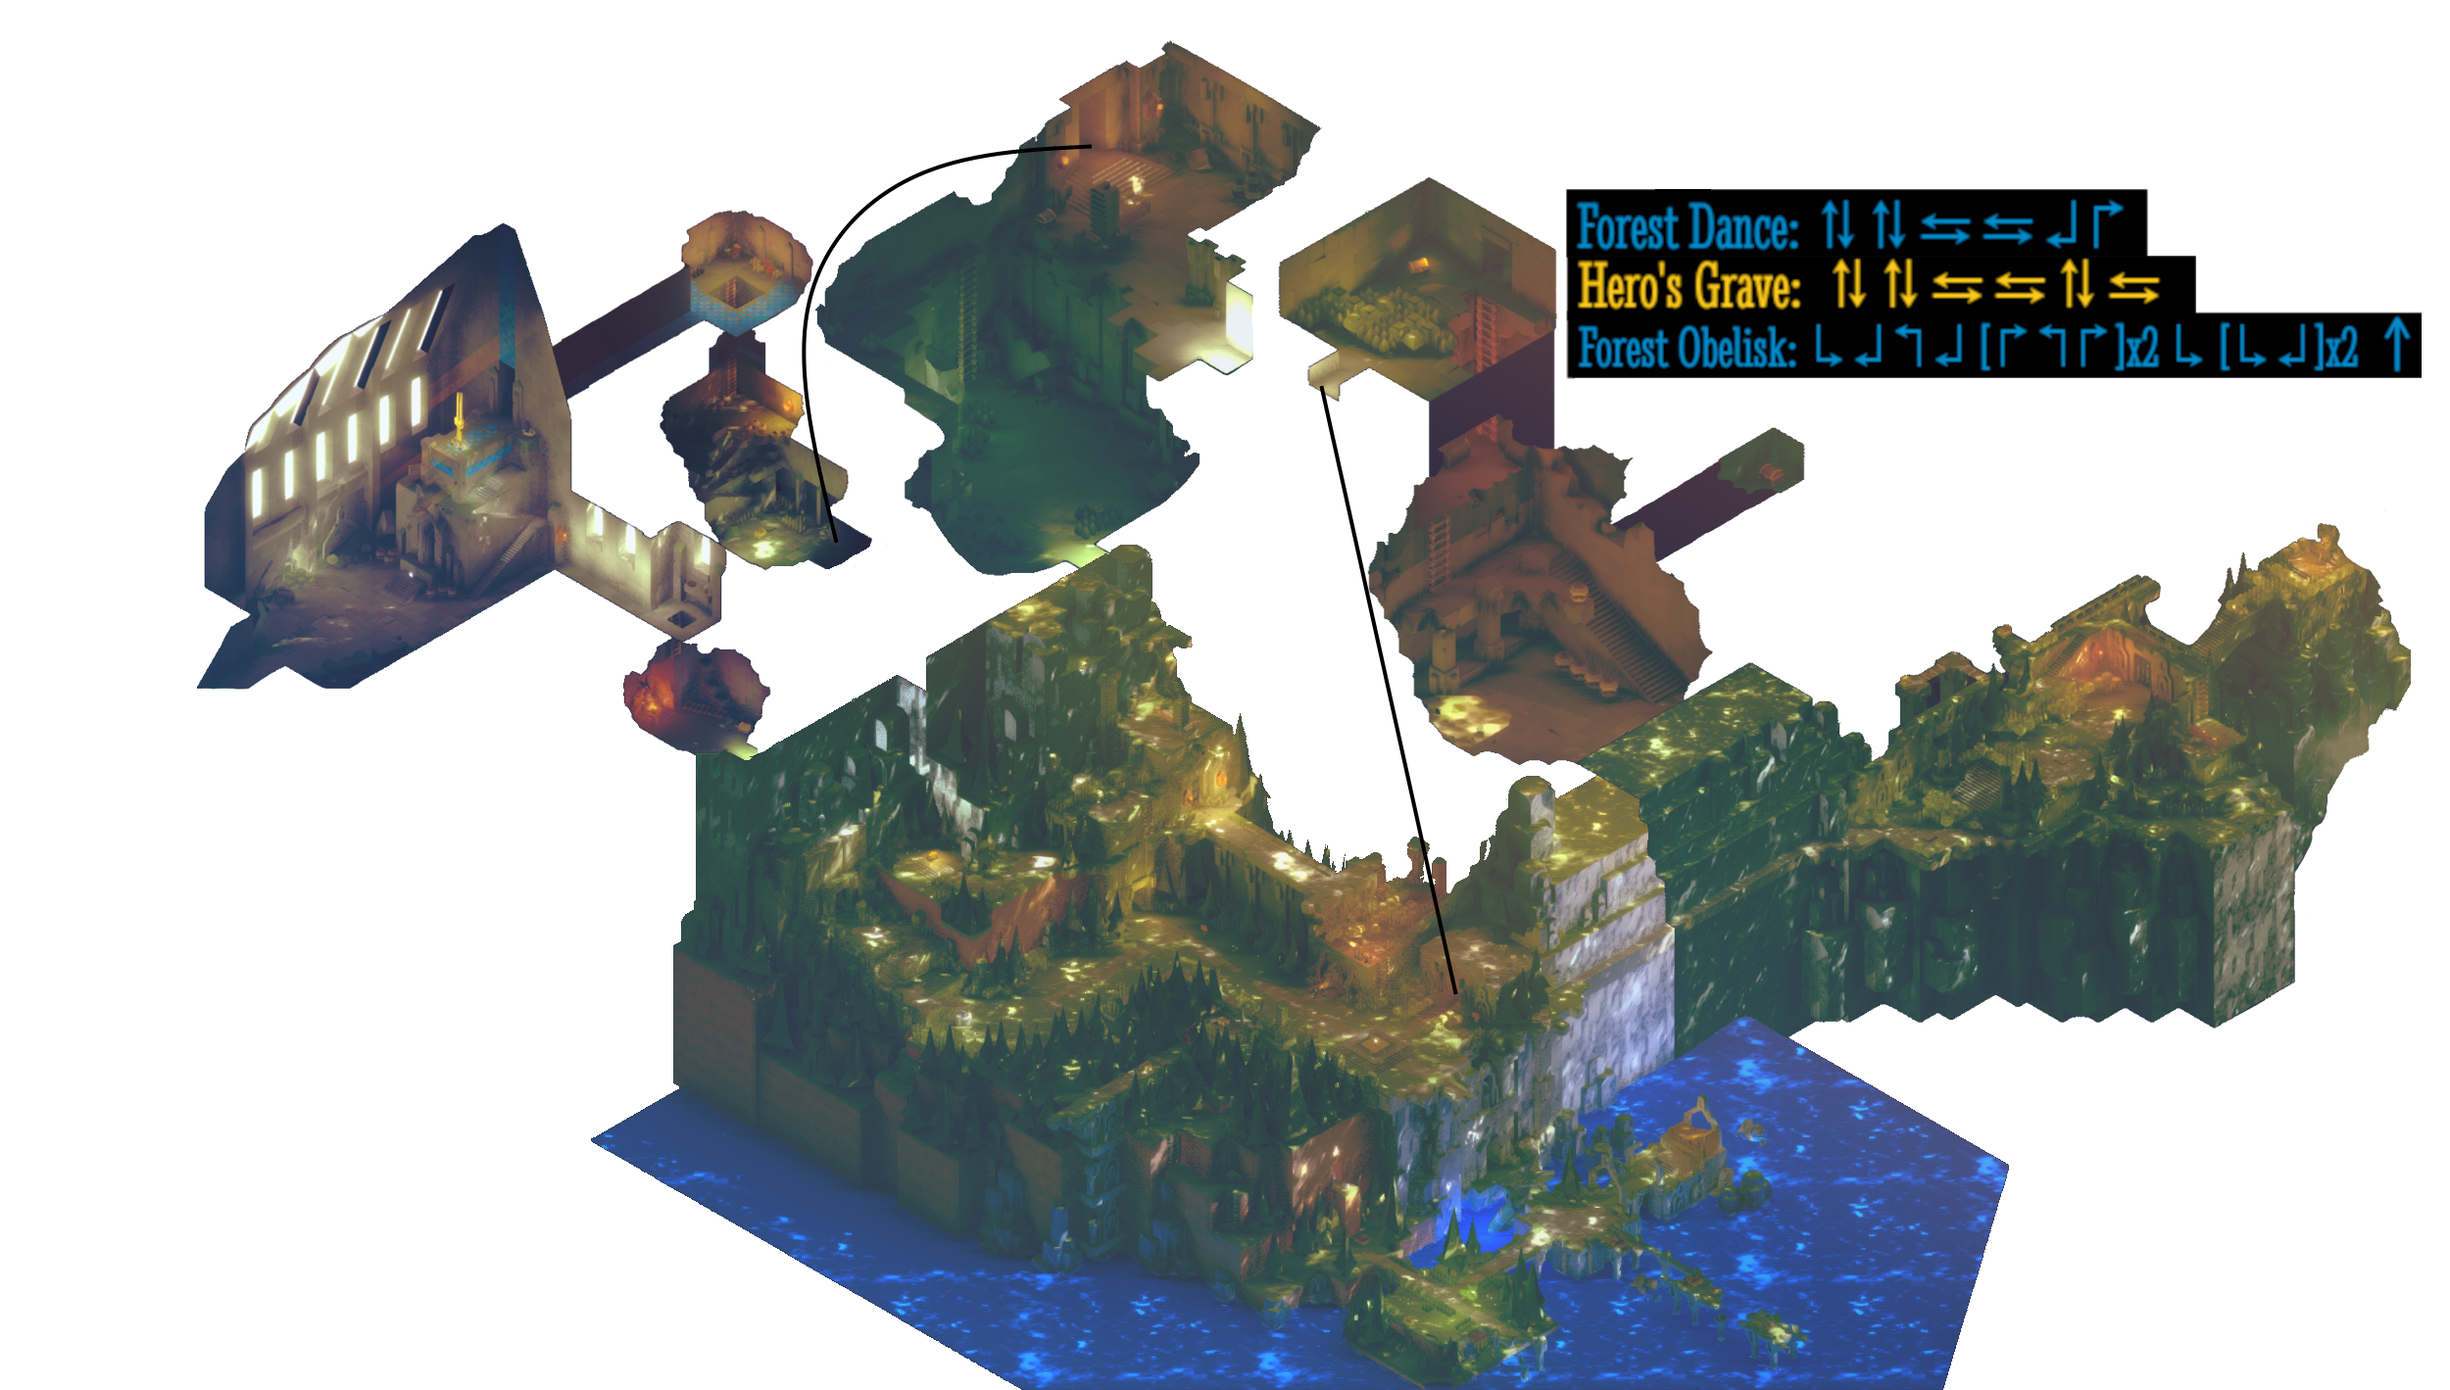
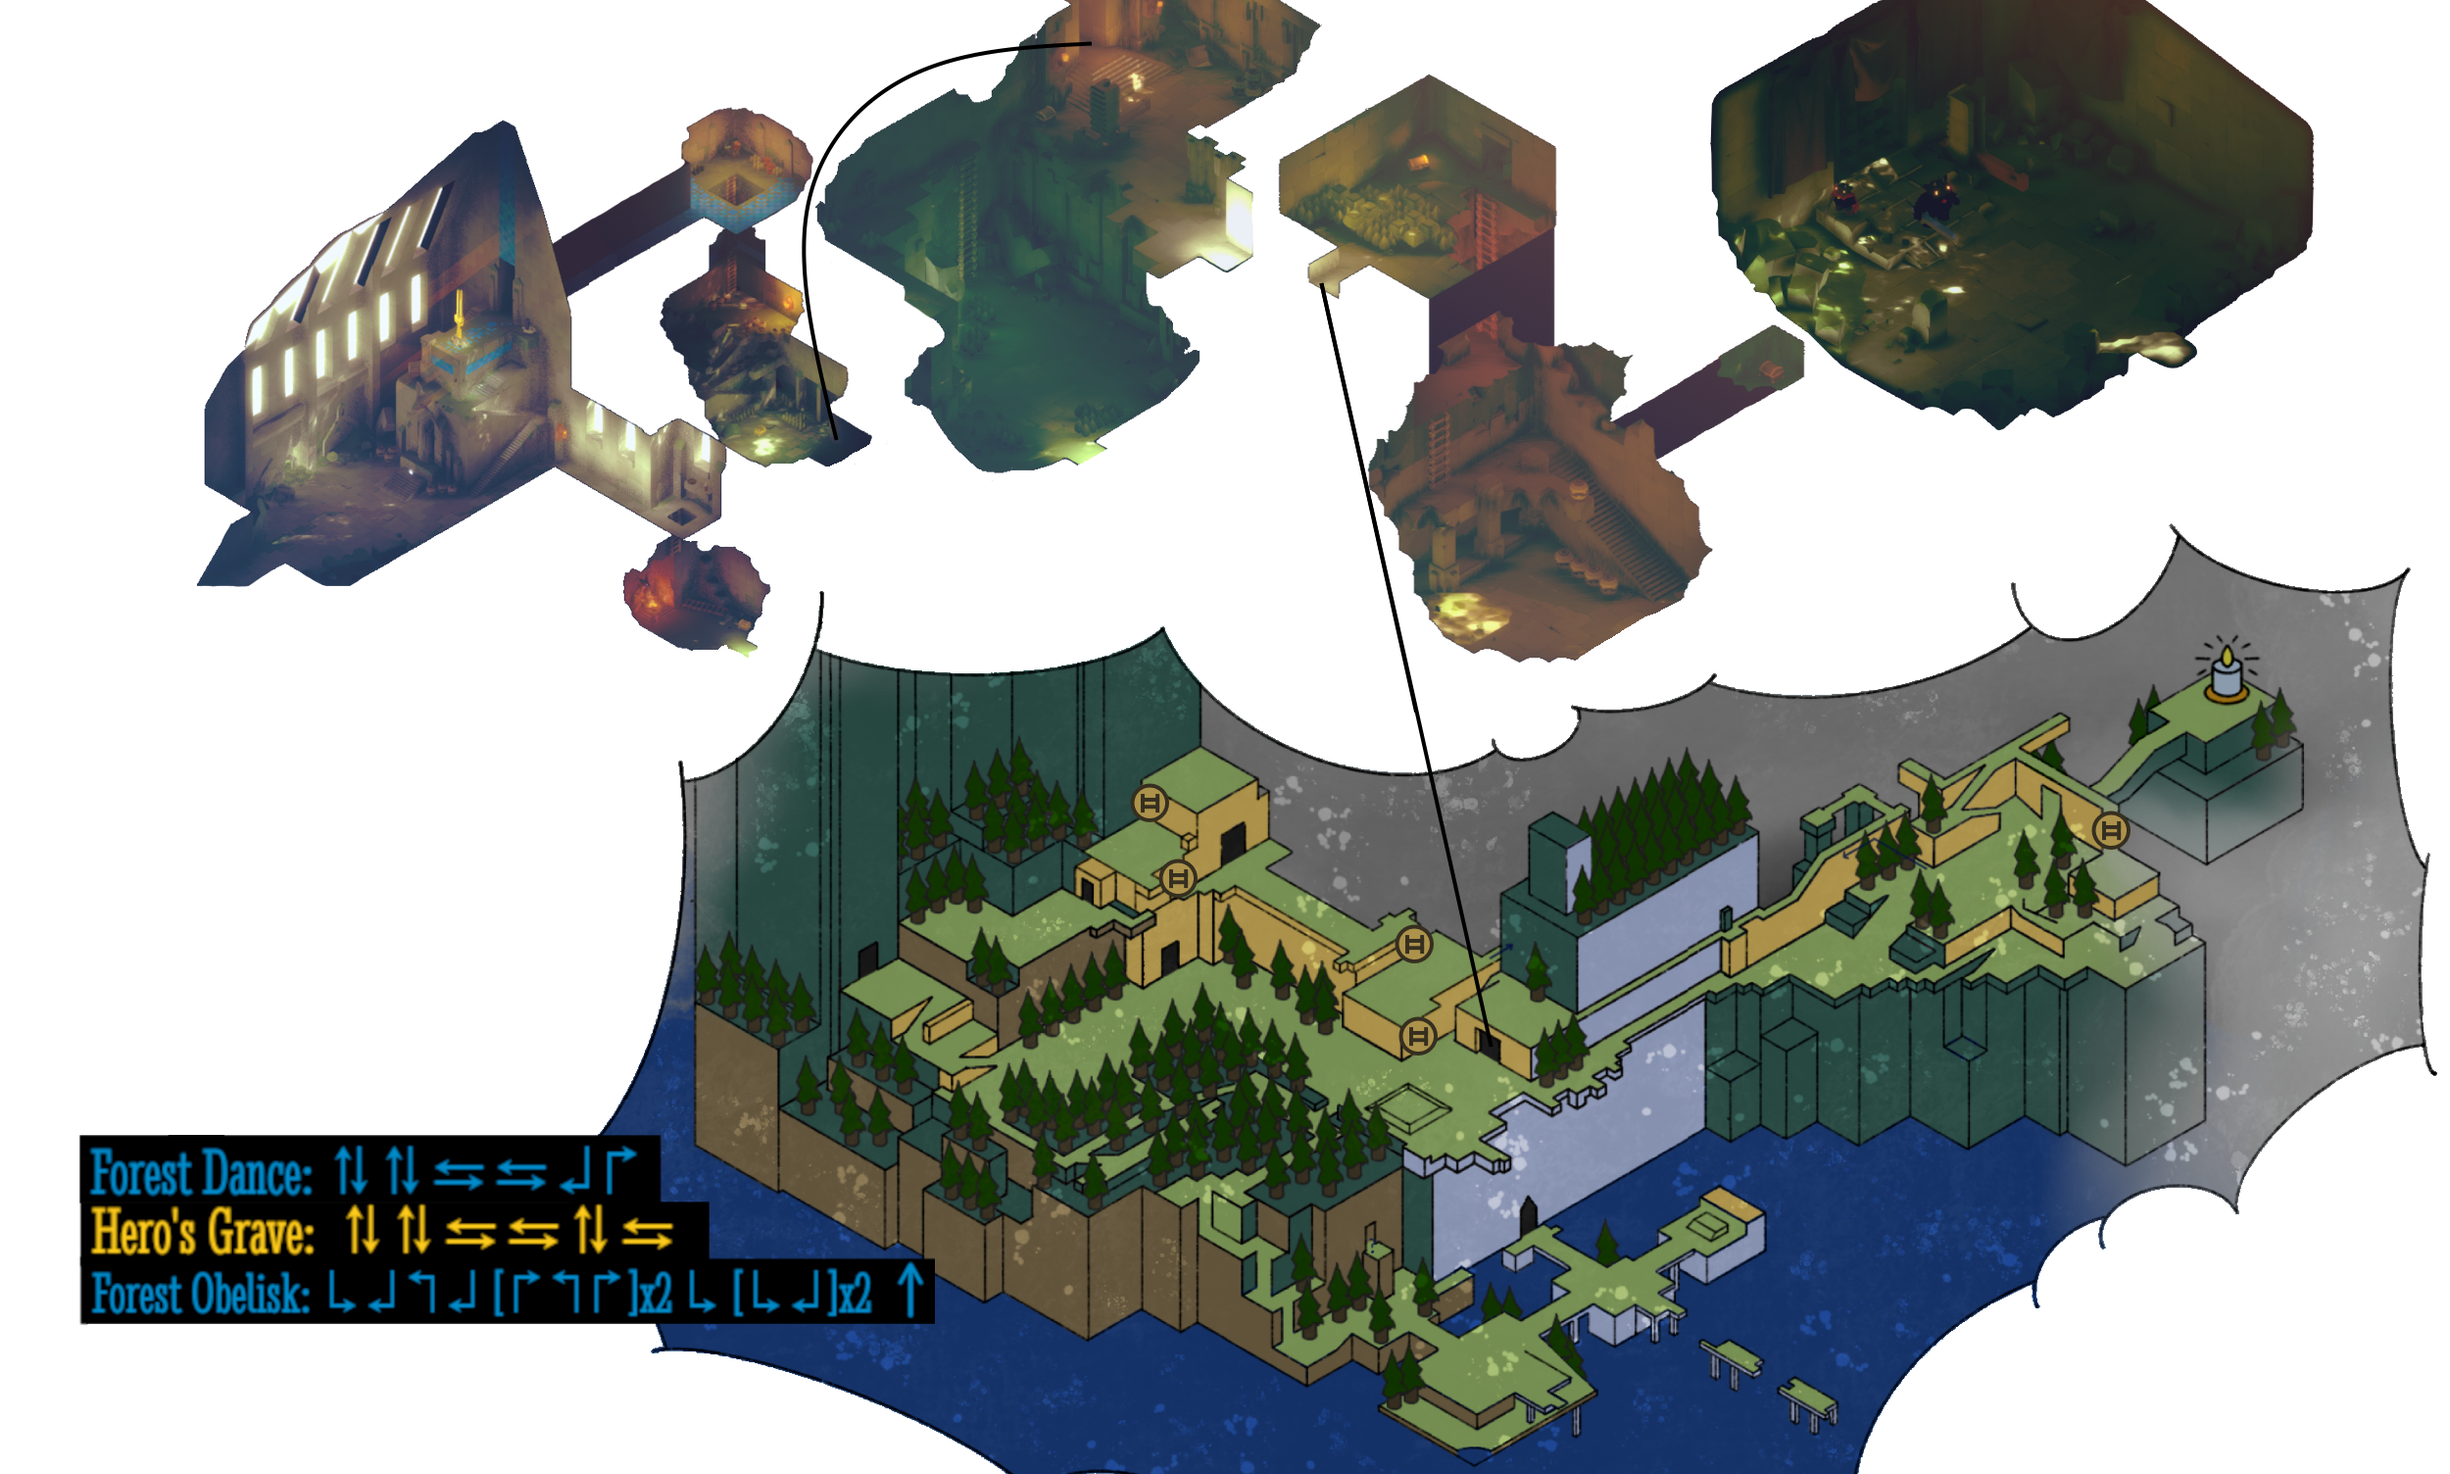
New east forest map

diff --git a/README.md b/README.md
@@ -6,6 +6,8 @@ If you encounter any issues, please contact SapphireSapphic#8218 on discord.
 Special thanks to SilentDestroyer for making the Tunic randomizer, and also for various insights that hepled make this package possible.
 Shoutouts to Ekkosangen, Jabberrock, and Celeste for noticing little things that make the tracker better :)
 
+East Forest map by [FletchIsAFurry](https://twitter.com/FletchIsAFurry).
+
 Please note: Autotracker for this package is not currently possible, but likely will be some time in the future. Please stay tuned, whenever this is possible I will work on implementing it immediately.
 
 Features of this tracker:
